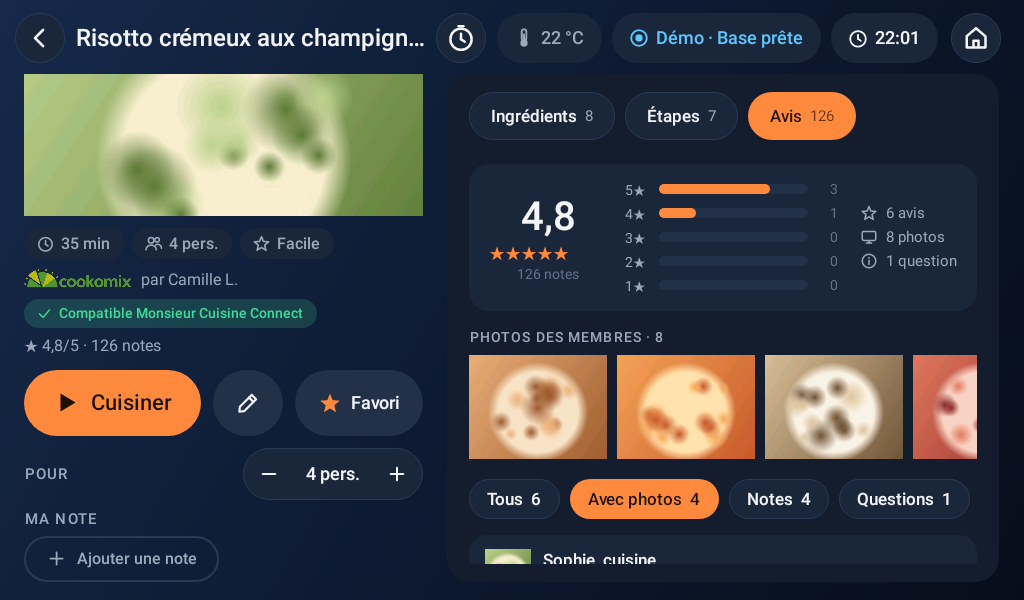
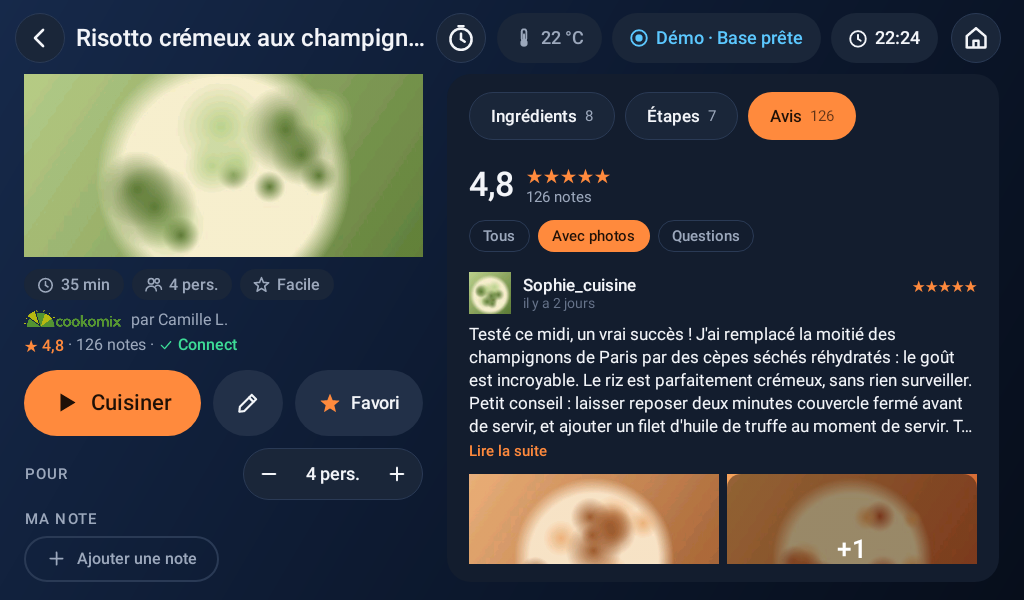
0.11.0.6: cleaner Cookomix screens, closer to cookomix.com
- reviews: the site's score on one line, three plain filters, reviews separated by a
  thin line, photos two by two in large ("+N"), replies folded behind "N réponses";
  no distribution bars, counters or top gallery any more
- recipe header: logo and author, then "★ 4,8 · 126 notes · ✓ Connect" (or
  "Adaptée ›") on one line instead of a chip and a separate rating line
- cards: "Cookomix", and "Cookomix · adaptée" only when a setting was changed
- screenshots (dark and light) and README updated

Claude-Session: https://claude.ai/code/session_013ABe7xUjesS2iNwjU35ppk

diff --git a/app/src/main/kotlin/app/toque/cookomix/CookomixReviews.kt b/app/src/main/kotlin/app/toque/cookomix/CookomixReviews.kt
@@ -56,7 +56,6 @@ object CookomixReviews {
     /** Au-delà, l'avis est replié sur [FOLDED_LINES] lignes avec « Lire la suite ». */
     private const val FOLD_CHARS = 280
     private const val FOLDED_LINES = 5
-    private const val GALLERY_MAX = 30
 
     private enum class Filter { ALL, PHOTOS, RATED, QUESTIONS }
 
@@ -111,46 +110,36 @@ object CookomixReviews {
         val outer = box
         @Suppress("NAME_SHADOWING") val box = Ui.vertical(a).apply { tag = CONTENT_TAG }
         outer.addView(box)
-        val shots = comments.flatMap { cm -> cm.photos.map { Shot(it, shown(cm.author), cm.date, cm.rating) } }.take(GALLERY_MAX)
-        box.addView(summary(a, recipe, comments, shots.size), Ui.lp(t = 12))
-        if (shots.isNotEmpty()) {
-            box.addView(label(a, tr("Photos des membres") + " · " + shots.size), Ui.lp(t = 18))
-            val strip = Ui.horizontal(a)
-            for ((i, s) in shots.withIndex()) {
-                val img = thumb(a, 14f) { viewer(a, shots, i) }
-                strip.addView(img, LinearLayout.LayoutParams(Ui.u(138), Ui.u(104)).apply { rightMargin = Ui.u(10) })
-                photo(a, s.url, img, Ui.u(138))
-            }
-            box.addView(HorizontalScrollView(a).apply { isHorizontalScrollBarEnabled = false; addView(strip) }, Ui.lp(t = 10))
-        }
+        // En tête, la note du site comme sur cookomix.com : « 4,8 ★★★★★ 126 notes ».
+        box.addView(score(a, recipe, comments), Ui.lp(t = 10))
 
         val list = Ui.vertical(a)
         val chips = Ui.horizontal(a)
         var filter = st.filter
-        fun count(f: Filter) = comments.count { matches(it, f) }
         fun fill() {
             chips.removeAllViews()
-            for (f in Filter.values()) {
-                val n = count(f)
-                if (f != Filter.ALL && n == 0) continue
+            for (f in listOf(Filter.ALL, Filter.PHOTOS, Filter.QUESTIONS)) {
+                if (f != Filter.ALL && comments.none { matches(it, f) }) continue
                 val name = when (f) {
-                    Filter.ALL -> tr("Tous")
                     Filter.PHOTOS -> tr("Avec photos")
-                    Filter.RATED -> tr("Notes")
                     Filter.QUESTIONS -> tr("Questions")
+                    else -> tr("Tous")
                 }
-                chips.addView(Ui.toggleChip(a, "$name  $n", f == filter) { filter = f; st.filter = f; fill() }, Ui.lp(Ui.WRAP, Ui.WRAP, r = 10))
+                chips.addView(smallChip(a, name, f == filter) { filter = f; st.filter = f; fill() }, Ui.lp(Ui.WRAP, Ui.WRAP, r = 8))
             }
             list.removeAllViews()
-            for (cm in comments.filter { matches(it, filter) }) list.addView(row(a, cm), Ui.lp(t = 12))
+            for ((k, cm) in comments.filter { matches(it, filter) }.withIndex()) {
+                if (k > 0) list.addView(Ui.divider(a), Ui.lp(Ui.MATCH, 1, t = 16))
+                list.addView(row(a, cm), Ui.lp(t = 16))
+            }
         }
         fill()
-        box.addView(HorizontalScrollView(a).apply { isHorizontalScrollBarEnabled = false; addView(chips) }, Ui.lp(t = 20))
+        box.addView(chips, Ui.lp(t = 14))
         box.addView(list, Ui.lp(t = 4))
         val postId = Cookomix.postId(recipe)
         if (st.more && postId != null) {
-            val more = Ui.button(a, if (st.loading) tr("Chargement des avis…") else tr("Voir plus d'avis (%d affichés)", comments.size),
-                Ui.Style.SECONDARY, Icon.Kind.DOWNLOAD, height = 52, textSize = 17f) { loadMore(a, recipe, outer, state, st, postId) }
+            val more = Ui.button(a, if (st.loading) tr("Chargement des avis…") else tr("Voir plus d'avis"),
+                Ui.Style.GHOST, height = 52, textSize = 17f) { loadMore(a, recipe, outer, state, st, postId) }
             Ui.setButtonEnabled(more, !st.loading)
             box.addView(more, Ui.lp(Ui.WRAP, Ui.WRAP, t = 16))
         }
@@ -220,48 +209,27 @@ object CookomixReviews {
         Filter.QUESTIONS -> cm.kind == Cookomix.CommentKind.QUESTION
     }
 
-    /** Note du site en grand, et ce que contient la page (avis, photos, questions). */
-    private fun summary(a: MainActivity, recipe: Recipe, comments: List<Cookomix.Comment>, photos: Int): View {
-        val card = Ui.horizontal(a)
-        card.background = Ui.round(Ui.SURFACE2, 20f)
-        card.setPadding(Ui.u(20), Ui.u(16), Ui.u(20), Ui.u(16))
-        val left = Ui.vertical(a, Gravity.CENTER_HORIZONTAL)
+    /** « 4,8 ★★★★★ 126 notes », sur une ligne. */
+    private fun score(a: MainActivity, recipe: Recipe, comments: List<Cookomix.Comment>): View {
+        val row = Ui.horizontal(a)
         val avg = if (recipe.ratingCount > 0) recipe.rating else comments.filter { it.rating > 0 }.map { it.rating }.average().takeIf { !it.isNaN() } ?: 0.0
-        left.addView(Ui.text(a, if (avg > 0) String.format(I18n.locale, "%.1f", avg) else "–", 40f, Ui.TEXT, Ui.MEDIUM).apply { gravity = Gravity.CENTER }, Ui.lp())
-        left.addView(Ui.text(a, stars(avg), 18f, Ui.ACCENT_INK).apply { setSingleLine() })
-        left.addView(Ui.text(a, if (recipe.ratingCount > 0) tr("%d notes", recipe.ratingCount) else tr("Pas encore noté"), 14f, Ui.TEXT3), Ui.lp(Ui.WRAP, Ui.WRAP, t = 2))
-        card.addView(left, Ui.lp(Ui.u(118), Ui.WRAP, r = 18))
-        val bars = Ui.vertical(a)
-        val rated = comments.filter { it.rating > 0 }
-        for (n in 5 downTo 1) {
-            val k = rated.count { it.rating == n }
-            val line = Ui.horizontal(a)
-            line.addView(Ui.text(a, "$n★", 14f, Ui.TEXT2), Ui.lp(Ui.u(34), Ui.WRAP))
-            val track = FrameLayout(a)
-            track.background = Ui.round(Ui.SURFACE3, 6f)
-            val fill = View(a).apply { background = Ui.round(Ui.ACCENT, 6f) }
-            val frac = if (rated.isEmpty()) 0f else k.toFloat() / rated.size
-            track.addView(fill, FrameLayout.LayoutParams(0, FrameLayout.LayoutParams.MATCH_PARENT))
-            track.post { fill.layoutParams = FrameLayout.LayoutParams((track.width * frac).toInt(), FrameLayout.LayoutParams.MATCH_PARENT); fill.requestLayout() }
-            line.addView(track, LinearLayout.LayoutParams(0, Ui.u(10), 1f))
-            line.addView(Ui.text(a, k.toString(), 14f, Ui.TEXT3).apply { gravity = Gravity.END }, Ui.lp(Ui.u(30), Ui.WRAP))
-            bars.addView(line, Ui.lp(t = if (n == 5) 0 else 5))
-        }
-        card.addView(bars, LinearLayout.LayoutParams(0, Ui.WRAP, 1f))
-        val facts = Ui.vertical(a)
-        facts.addView(fact(a, Icon.Kind.STAR, tr("%d avis", comments.size)))
-        facts.addView(fact(a, Icon.Kind.SCREEN, tr("%d photos", photos)), Ui.lp(t = 6))
-        val q = comments.count { it.kind == Cookomix.CommentKind.QUESTION }
-        if (q > 0) facts.addView(fact(a, Icon.Kind.INFO, if (q == 1) tr("1 question") else tr("%d questions", q)), Ui.lp(t = 6))
-        card.addView(facts, Ui.lp(Ui.WRAP, Ui.WRAP, l = 22))
-        return card
+        if (avg <= 0) return row.apply { addView(Ui.text(a, tr("Pas encore noté"), 16f, Ui.TEXT2)) }
+        row.addView(Ui.text(a, String.format(I18n.locale, "%.1f", avg), 34f, Ui.TEXT, Ui.MEDIUM))
+        val col = Ui.vertical(a)
+        col.addView(Ui.text(a, stars(avg), 19f, Ui.ACCENT_INK).apply { setSingleLine() })
+        if (recipe.ratingCount > 0) col.addView(Ui.text(a, tr("%d notes", recipe.ratingCount), 15f, Ui.TEXT2))
+        row.addView(col, Ui.lp(Ui.WRAP, Ui.WRAP, l = 12))
+        return row
     }
 
-    private fun fact(a: MainActivity, icon: Icon.Kind, text: String): View {
-        val row = Ui.horizontal(a)
-        row.addView(Icon(a, icon, Ui.TEXT2), LinearLayout.LayoutParams(Ui.u(18), Ui.u(18)).apply { rightMargin = Ui.u(8) })
-        row.addView(Ui.text(a, text, 15f, Ui.TEXT2))
-        return row
+    /** Puce de filtre discrète (texte seul, fond seulement quand elle est choisie). */
+    private fun smallChip(a: MainActivity, label: String, selected: Boolean, onClick: () -> Unit): TextView {
+        val t = Ui.text(a, label, 15f, if (selected) Ui.ON_ACCENT else Ui.TEXT2, Ui.MEDIUM)
+        t.setPadding(Ui.u(14), Ui.u(7), Ui.u(14), Ui.u(7))
+        t.background = Ui.pressable(if (selected) Ui.round(Ui.ACCENT, 40f) else Ui.round(0, 40f, Ui.STROKE, 1f), 40f)
+        t.isClickable = true
+        t.setOnClickListener { onClick() }
+        return t
     }
 
     private fun stars(v: Double): String {
@@ -269,39 +237,37 @@ object CookomixReviews {
         return "★".repeat(full) + "☆".repeat(5 - full)
     }
 
-    private fun label(a: MainActivity, t: String): TextView =
-        Ui.text(a, t.uppercase(), 14f, Ui.TEXT2, Ui.MEDIUM).apply { letterSpacing = 0.08f }
-
-    /** Un avis : avatar, nom, note ou nature, date ; texte replié s'il est long ; ses photos. */
+    /**
+     * Un avis, à la façon de cookomix.com : avatar, nom et note sur une ligne, la date dessous ; le texte
+     * (replié s'il est long) ; les photos en grand, deux par ligne ; les réponses repliées.
+     */
     private fun row(a: MainActivity, cm: Cookomix.Comment): View {
         val box = Ui.vertical(a)
-        box.background = Ui.round(Ui.SURFACE2, 18f)
-        box.setPadding(Ui.u(16), Ui.u(14), Ui.u(16), Ui.u(14))
         val head = Ui.horizontal(a)
         val author = shown(cm.author).ifBlank { tr("Anonyme") }
-        head.addView(avatar(a, cm, author), LinearLayout.LayoutParams(Ui.u(46), Ui.u(46)).apply { rightMargin = Ui.u(12) })
+        head.addView(avatar(a, cm, author), LinearLayout.LayoutParams(Ui.u(42), Ui.u(42)).apply { rightMargin = Ui.u(12) })
         val who = Ui.vertical(a)
-        who.addView(Ui.ellipsize(Ui.text(a, author, 17f, Ui.TEXT, Ui.MEDIUM)))
         val line = Ui.horizontal(a)
+        line.addView(Ui.ellipsize(Ui.text(a, author, 17f, Ui.TEXT, Ui.MEDIUM)), LinearLayout.LayoutParams(0, Ui.WRAP, 1f))
         when (cm.kind) {
-            Cookomix.CommentKind.RATED -> line.addView(Ui.text(a, stars(cm.rating.toDouble()), 16f, Ui.ACCENT_INK))
-            Cookomix.CommentKind.QUESTION -> line.addView(Ui.chip(a, tr("Question"), Icon.Kind.INFO, Ui.ACCENT_INK, Ui.ACCENT_DIM, 13f))
-            Cookomix.CommentKind.COMMENT -> line.addView(Ui.chip(a, tr("Commentaire"), null, Ui.TEXT2, Ui.SURFACE3, 13f))
+            Cookomix.CommentKind.RATED -> line.addView(Ui.text(a, stars(cm.rating.toDouble()), 15f, Ui.ACCENT_INK), Ui.lp(Ui.WRAP, Ui.WRAP, l = 8))
+            Cookomix.CommentKind.QUESTION -> line.addView(Ui.text(a, tr("Question"), 14f, Ui.ACCENT_INK, Ui.MEDIUM), Ui.lp(Ui.WRAP, Ui.WRAP, l = 8))
+            Cookomix.CommentKind.COMMENT -> {}
         }
-        if (cm.date.isNotBlank()) line.addView(Ui.text(a, cm.date, 14f, Ui.TEXT3), Ui.lp(Ui.WRAP, Ui.WRAP, l = 10))
-        who.addView(line, Ui.lp(t = 2))
+        who.addView(line)
+        if (cm.date.isNotBlank()) who.addView(Ui.text(a, cm.date, 14f, Ui.TEXT3))
         head.addView(who, LinearLayout.LayoutParams(0, Ui.WRAP, 1f))
         box.addView(head)
 
         val text = shown(cm.text)
         if (text.isNotBlank()) {
-            val body = Ui.text(a, text, 17f, Ui.TEXT).apply { setLineSpacing(0f, 1.14f) }
+            val body = Ui.text(a, text, 17f, Ui.TEXT).apply { setLineSpacing(0f, 1.16f) }
             box.addView(body, Ui.lp(t = 10))
             if (text.length > FOLD_CHARS) {
                 body.maxLines = FOLDED_LINES
                 body.ellipsize = TextUtils.TruncateAt.END
-                val more = Ui.text(a, tr("Lire la suite"), 16f, Ui.ACCENT_INK, Ui.MEDIUM)
-                more.setPadding(0, Ui.u(8), Ui.u(20), Ui.u(4))
+                val more = Ui.text(a, tr("Lire la suite"), 15f, Ui.ACCENT_INK, Ui.MEDIUM)
+                more.setPadding(0, Ui.u(6), Ui.u(20), Ui.u(2))
                 more.isClickable = true
                 more.setOnClickListener {
                     val open = body.maxLines == FOLDED_LINES
@@ -311,16 +277,43 @@ object CookomixReviews {
                 box.addView(more, Ui.lp(Ui.WRAP, Ui.WRAP))
             }
         }
-        for (r in cm.replies) box.addView(reply(a, r), Ui.lp(t = 10))
         if (cm.photos.isNotEmpty()) {
             val shots = cm.photos.map { Shot(it, author, cm.date, cm.rating) }
-            val strip = Ui.horizontal(a)
-            for ((i, p) in cm.photos.withIndex()) {
-                val img = thumb(a, 12f) { viewer(a, shots, i) }
-                strip.addView(img, LinearLayout.LayoutParams(Ui.u(150), Ui.u(100)).apply { rightMargin = Ui.u(10) })
-                photo(a, p, img, Ui.u(150))
+            // Deux photos par ligne, en grand (trois et plus : les deux premières, et « +N » sur la seconde).
+            val grid = Ui.horizontal(a)
+            val shownPhotos = cm.photos.take(2)
+            for ((k, p) in shownPhotos.withIndex()) {
+                val cell = FrameLayout(a)
+                val img = thumb(a, 14f) { viewer(a, shots, k) }
+                cell.addView(img, Ui.flp())
+                photo(a, p, img, Ui.u(250))
+                val extra = cm.photos.size - shownPhotos.size
+                if (k == shownPhotos.size - 1 && extra > 0) {
+                    cell.addView(Ui.text(a, "+$extra", 26f, 0xFFFFFFFF.toInt(), Ui.MEDIUM).apply {
+                        gravity = Gravity.CENTER
+                        background = Ui.round(0x66000000, 14f)
+                        isClickable = false
+                    }, Ui.flp())
+                }
+                grid.addView(cell, LinearLayout.LayoutParams(0, Ui.u(150), 1f).apply { if (k == 0 && shownPhotos.size > 1) rightMargin = Ui.u(8) })
             }
-            box.addView(HorizontalScrollView(a).apply { isHorizontalScrollBarEnabled = false; addView(strip) }, Ui.lp(t = 12))
+            if (shownPhotos.size == 1) grid.addView(View(a), LinearLayout.LayoutParams(0, 0, 1f).apply { leftMargin = Ui.u(8) })
+            box.addView(grid, Ui.lp(t = 12))
+        }
+        if (cm.replies.isNotEmpty()) {
+            val replies = Ui.vertical(a).apply { visibility = View.GONE }
+            for (r in cm.replies) replies.addView(reply(a, r), Ui.lp(t = 10))
+            val n = cm.replies.size
+            val toggle = Ui.text(a, if (n == 1) tr("1 réponse") else tr("%d réponses", n), 15f, Ui.TEXT2, Ui.MEDIUM)
+            toggle.setPadding(0, Ui.u(10), Ui.u(20), Ui.u(2))
+            toggle.isClickable = true
+            toggle.setOnClickListener {
+                val open = replies.visibility != View.VISIBLE
+                replies.visibility = if (open) View.VISIBLE else View.GONE
+                toggle.text = if (open) tr("Masquer les réponses") else if (n == 1) tr("1 réponse") else tr("%d réponses", n)
+            }
+            box.addView(toggle, Ui.lp(Ui.WRAP, Ui.WRAP))
+            box.addView(replies)
         }
         return box
     }
@@ -342,7 +335,7 @@ object CookomixReviews {
     }
 
     /** Photo de profil ronde, ou ses initiales sur une couleur tirée de son nom. */
-    private fun avatar(a: MainActivity, cm: Cookomix.Comment, author: String): View = avatarOf(a, author, cm.avatar, 46)
+    private fun avatar(a: MainActivity, cm: Cookomix.Comment, author: String): View = avatarOf(a, author, cm.avatar, 42)
 
     private fun avatarOf(a: MainActivity, author: String, url: String, sizeDp: Int): View {
         val frame = FrameLayout(a)

diff --git a/app/src/main/kotlin/app/toque/cookomix/CookomixBadges.kt b/app/src/main/kotlin/app/toque/cookomix/CookomixBadges.kt
@@ -33,10 +33,13 @@ object CookomixBadges {
     /** Un réglage a été changé pour le Monsieur Cuisine (mot-clé « Adaptée MCC »). */
     fun adapted(tags: List<String>): Boolean = Cookomix.TAG_ADAPTED in tags
 
-    /** Texte du badge des vignettes de la liste. */
-    fun cardBadge(tags: List<String>): String = if (adapted(tags)) tr("Cookomix · adaptée") else tr("Cookomix · Connect ✓")
+    /** Texte du badge des vignettes : « Cookomix », et « adaptée » seulement quand un réglage a changé. */
+    fun cardBadge(tags: List<String>): String = if (adapted(tags)) tr("Cookomix · adaptée") else "Cookomix"
 
-    /** En-tête de la fiche : logo et auteur, puis le signe « compatible » ou « adaptée ». */
+    /**
+     * En-tête de la fiche, sobre : le logo et l'auteur ; puis la note et le signe sur une seule ligne
+     * (« ★ 4,8 · 126 notes · ✓ Connect », ou « Adaptée › » qui ouvre le détail).
+     */
     fun header(a: MainActivity, r: Recipe): View {
         val col = Ui.vertical(a)
         val row = Ui.horizontal(a)
@@ -44,20 +47,28 @@ object CookomixBadges {
         if (bmp != null) {
             val img = ImageView(a).apply { setImageBitmap(bmp); scaleType = ImageView.ScaleType.FIT_START; adjustViewBounds = true }
             img.contentDescription = "Cookomix"
-            row.addView(img, LinearLayout.LayoutParams(Ui.u(22) * bmp.width / bmp.height, Ui.u(22)))
+            row.addView(img, LinearLayout.LayoutParams(Ui.u(20) * bmp.width / bmp.height, Ui.u(20)))
         } else row.addView(Ui.text(a, "cookomix", 17f, 0xFF539332.toInt(), Ui.MEDIUM))
         if (r.author.isNotBlank()) row.addView(Ui.ellipsize(Ui.text(a, tr("par %s", r.author), 16f, Ui.TEXT2)), Ui.lp(Ui.WRAP, Ui.WRAP, l = 10))
         col.addView(row)
 
-        val changes = Cookomix.adaptations(r)
-        val isAdapted = adapted(r.tags) || changes.isNotEmpty()
-        val chip = if (isAdapted) Ui.chip(a, tr("Adaptée au Monsieur Cuisine · détails"), Icon.Kind.EDIT, Ui.ACCENT_INK, Ui.ACCENT_DIM, 14f)
-        else Ui.chip(a, tr("Compatible Monsieur Cuisine Connect"), Icon.Kind.CHECK, Ui.OK, (Ui.OK and 0x00FFFFFF) or 0x2E000000, 14f)
-        if (isAdapted) {
-            chip.isClickable = true
-            chip.setOnClickListener { details(a, changes) }
+        val line = Ui.horizontal(a)
+        if (r.ratingCount > 0) {
+            line.addView(Ui.text(a, "★ " + String.format(app.toque.core.i18n.I18n.locale, "%.1f", r.rating), 16f, Ui.ACCENT_INK, Ui.MEDIUM))
+            line.addView(Ui.text(a, " · " + tr("%d notes", r.ratingCount) + " · ", 16f, Ui.TEXT2))
         }
-        col.addView(chip, Ui.lp(Ui.WRAP, Ui.WRAP, t = 8))
+        val changes = Cookomix.adaptations(r)
+        if (adapted(r.tags) || changes.isNotEmpty()) {
+            val t = Ui.text(a, tr("Adaptée ›"), 16f, Ui.ACCENT_INK, Ui.MEDIUM)
+            t.isClickable = true
+            t.setPadding(0, Ui.u(6), Ui.u(12), Ui.u(6))
+            t.setOnClickListener { details(a, changes) }
+            line.addView(t)
+        } else {
+            line.addView(Icon(a, Icon.Kind.CHECK, Ui.OK), LinearLayout.LayoutParams(Ui.u(16), Ui.u(16)).apply { rightMargin = Ui.u(4) })
+            line.addView(Ui.text(a, "Connect", 16f, Ui.OK, Ui.MEDIUM))
+        }
+        col.addView(line, Ui.lp(t = 4))
         return col
     }
 

diff --git a/app/src/test/kotlin/app/toque/CookomixScreensTest.kt b/app/src/test/kotlin/app/toque/CookomixScreensTest.kt
@@ -276,7 +276,7 @@ class CookomixScreensTest {
 
         activity.push(RecipeScreen(activity, app.recipes.get(risotto.id)!!))
         idle(3)
-        assertNotNull(findText(activity.window.decorView, "Compatible Monsieur Cuisine Connect"))
+        assertNotNull(findText(activity.window.decorView, "Connect"))
         shot("03-fiche-ingredients")
         click("Étapes")
         shot("04-fiche-etapes")
@@ -286,16 +286,18 @@ class CookomixScreensTest {
         find(activity.window.decorView, ScrollView::class.java) { findText(it, "Sophie_cuisine") != null }?.scrollTo(0, 330)
         shot("06-avis-suite")
         click("Lire la suite")
-        find(activity.window.decorView, ScrollView::class.java) { findText(it, "Sophie_cuisine") != null }?.scrollTo(0, 560)
+        click("2 réponses")
+        find(activity.window.decorView, ScrollView::class.java) { findText(it, "Sophie_cuisine") != null }?.scrollTo(0, 520)
         shot("07b-avis-reponses")
         find(activity.window.decorView, ScrollView::class.java) { findText(it, "Sophie_cuisine") != null }?.scrollTo(0, 330)
         shot("07-avis-lire-la-suite")
         click("Avec photos", exact = false)
         find(activity.window.decorView, ScrollView::class.java) { findText(it, "Sophie_cuisine") != null }?.scrollTo(0, 0)
         shot("08-avis-filtre-photos")
-        // Galerie : la première photo, en grand.
-        val gallery = find(activity.window.decorView, HorizontalScrollView::class.java) { it.getChildAt(0).let { s -> s is ViewGroup && s.childCount > 0 && s.getChildAt(0) is ImageView } }
-        (((gallery!!.getChildAt(0)) as ViewGroup).getChildAt(1)).performClick()
+        // Première photo d'un avis, en grand.
+        find(activity.window.decorView, ScrollView::class.java) { findText(it, "Sophie_cuisine") != null }?.scrollTo(0, 0)
+        idle(2)
+        find(activity.window.decorView, ImageView::class.java) { it.isClickable && it.width > 200 }!!.performClick()
         idle(3)
         shot("09-visionneuse")
         activity.closeOverlay()
@@ -306,7 +308,7 @@ class CookomixScreensTest {
         activity.push(RecipeScreen(activity, app.recipes.get(brioche.id)!!))
         idle(3)
         shot("10-fiche-adaptee")
-        click("Adaptée au Monsieur Cuisine · détails")
+        click("Adaptée ›")
         shot("10b-details-adaptation")
         activity.closeOverlay()
 

diff --git a/app/src/main/kotlin/app/toque/ui/screens/RecipeScreen.kt b/app/src/main/kotlin/app/toque/ui/screens/RecipeScreen.kt
@@ -98,7 +98,7 @@ class RecipeScreen(a: MainActivity, val recipe: Recipe) : Screen(a) {
         // Recette de la communauté : sa langue seulement si ce n'est pas celle de l'interface.
         if (recipe.language.isNotBlank() && recipe.source != RecipeSource.COOKOMIX && !(community && recipe.language.substringBefore('-') == I18n.code.substringBefore('-')))
             byline += tr("Recette en %s", java.util.Locale.forLanguageTag(recipe.language).getDisplayLanguage(I18n.locale))
-        if (recipe.ratingCount > 0) byline += "★ " + tr("%s/5 · %d notes", rating(recipe.rating), recipe.ratingCount)
+        if (recipe.ratingCount > 0 && recipe.source != RecipeSource.COOKOMIX) byline += "★ " + tr("%s/5 · %d notes", rating(recipe.rating), recipe.ratingCount)
         // Une ligne chacun : sur une seule, la note était coupée (« 124… ») dès que l'auteur est long.
         byline.forEachIndexed { i, line ->
             left.addView(Ui.ellipsize(Ui.text(c, line, 16f, Ui.TEXT2)), Ui.lp(t = if (i == 0 && recipe.source != RecipeSource.COOKOMIX) 10 else if (i == 0) 6 else 2))

diff --git a/README.fr.md b/README.fr.md
@@ -9,10 +9,10 @@ Captures rendues à 1024 × 600, la taille de l'écran du robot. Recettes, avis 
 pour les captures (rien n'est copié de cookomix.com) : sur le robot, ce sont ceux du site. Le logo
 appartient à Cookomix ; ce projet n'est pas affilié à Cookomix.
 
-| Liste : signe **Connect ✓** ou **adaptée** sur chaque recette | Fiche : logo, signe « Compatible Monsieur Cuisine Connect » |
+| Liste : « Cookomix », et « adaptée » quand un réglage a changé | Fiche : logo, note, ✓ Connect |
 |---|---|
 | ![Liste Cookomix](docs/images/cookomix/02-liste-cookomix.png) | ![Fiche](docs/images/cookomix/03-fiche-ingredients.png) |
-| Onglet **Avis** : note, répartition, photos des membres, filtres | **Avis complet** (« Lire la suite », photos) |
+| Onglet **Avis** : la note du site, filtres, avis et photos des membres | **Avis complet** (« Lire la suite ») |
 | ![Avis](docs/images/cookomix/05-avis.png) | ![Avis](docs/images/cookomix/07-avis-lire-la-suite.png) |
 | **Réponses** aux avis | **Voir plus d'avis**, page après page |
 | ![Réponses](docs/images/cookomix/07b-avis-reponses.png) | ![Plus d'avis](docs/images/cookomix/09b-avis-qr-code.png) |

diff --git a/README.md b/README.md
@@ -9,10 +9,10 @@ Captures rendues à 1024 × 600, la taille de l'écran du robot. Recettes, avis 
 pour les captures (rien n'est copié de cookomix.com) : sur le robot, ce sont ceux du site. Le logo
 appartient à Cookomix ; ce projet n'est pas affilié à Cookomix.
 
-| Liste : signe **Connect ✓** ou **adaptée** sur chaque recette | Fiche : logo, signe « Compatible Monsieur Cuisine Connect » |
+| Liste : « Cookomix », et « adaptée » quand un réglage a changé | Fiche : logo, note, ✓ Connect |
 |---|---|
 | ![Liste Cookomix](docs/images/cookomix/02-liste-cookomix.png) | ![Fiche](docs/images/cookomix/03-fiche-ingredients.png) |
-| Onglet **Avis** : note, répartition, photos des membres, filtres | **Avis complet** (« Lire la suite », photos) |
+| Onglet **Avis** : la note du site, filtres, avis et photos des membres | **Avis complet** (« Lire la suite ») |
 | ![Avis](docs/images/cookomix/05-avis.png) | ![Avis](docs/images/cookomix/07-avis-lire-la-suite.png) |
 | **Réponses** aux avis | **Voir plus d'avis**, page après page |
 | ![Réponses](docs/images/cookomix/07b-avis-reponses.png) | ![Plus d'avis](docs/images/cookomix/09b-avis-qr-code.png) |
